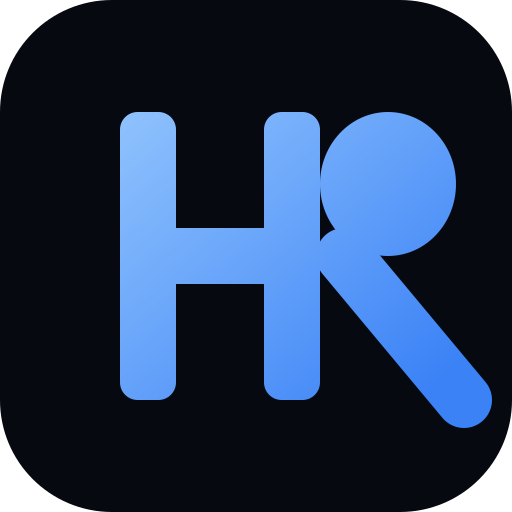
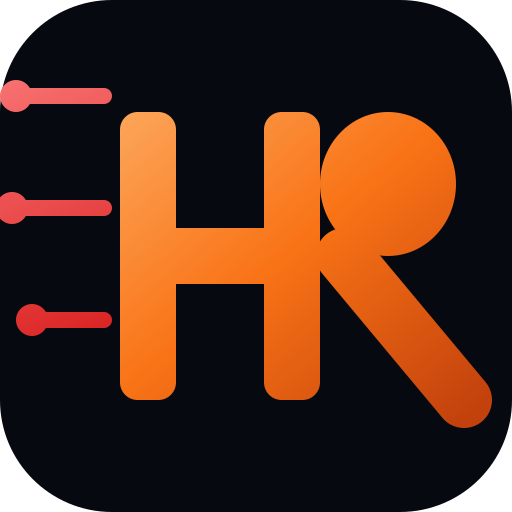
feat: aplicar identidade visual oficial (laranja/vermelho) da HR Tech
Substitui a paleta azul provisória pela identidade real da marca,
a partir da logo oficial enviada pelo fundador (opção B — laranja/dourado
com fundo escuro):

- Cor principal do site passa de azul para laranja (degradê dourado →
  laranja → laranja queimado, igual ao da logo).
- Trilhas de circuito da marca (elemento decorativo do glifo "HR") agora
  em vermelho, como toque de destaque pedido pelo fundador.
- Botões primários, glows, links, ícones e o gradiente do título do Hero
  seguem a nova paleta via variáveis CSS (--brand/--brand-strong/
  --brand-soft/--accent) — sem cores azul hardcoded restantes no código.
- Favicon, ícones de app (192/512), apple-touch-icon e imagem Open Graph
  regenerados com a nova identidade.
- Contraste revalidado (texto branco sobre laranja escuro ≥ 4.5:1).

Verificação: pnpm check limpo; Lighthouse no build de produção —
Performance 92, Accessibility 100, Best Practices 100, SEO 100.

Claude-Session: https://claude.ai/code/session_01FSiZHGFqUk4qMVMK7fgffD

Changed region(s): [[0.0, 0.2188, 0.9688, 0.8438], [0.0, 0.1562, 0.2188, 0.2188]]

diff --git a/components/ui/Logo.tsx b/components/ui/Logo.tsx
@@ -2,28 +2,38 @@ import { cn } from '@/lib/cn';
 
 /**
  * Marca HR Tech: glifo "HR" combinado (a haste direita do H é a haste do R)
- * alimentado por três trilhas de circuito — mesmo desenho da marca anterior,
- * agora na paleta azul do novo site.
+ * alimentado por três trilhas de circuito — identidade oficial (degradê
+ * laranja/dourado da logo, com as trilhas de circuito em vermelho como
+ * toque de destaque).
  */
 export function LogoMark({ className, title }: { className?: string; title?: string }) {
   return (
     <svg viewBox="0 0 64 40" fill="none" className={className} role={title ? 'img' : undefined} aria-hidden={title ? undefined : true}>
       {title && <title>{title}</title>}
       <defs>
-        <linearGradient id="hr-mark" x1="0" y1="4" x2="48" y2="36" gradientUnits="userSpaceOnUse">
-          <stop offset="0" stopColor="#93C5FD" />
-          <stop offset="1" stopColor="#3B82F6" />
+        <linearGradient id="hr-mark" x1="8" y1="2" x2="50" y2="38" gradientUnits="userSpaceOnUse">
+          <stop offset="0" stopColor="#FDBA74" />
+          <stop offset="0.55" stopColor="#F97316" />
+          <stop offset="1" stopColor="#C2410C" />
+        </linearGradient>
+        <linearGradient id="hr-mark-accent" x1="0" y1="8" x2="10" y2="32" gradientUnits="userSpaceOnUse">
+          <stop offset="0" stopColor="#F87171" />
+          <stop offset="1" stopColor="#DC2626" />
         </linearGradient>
       </defs>
-      <g stroke="url(#hr-mark)" strokeWidth="1.5" strokeLinecap="round">
+      {/* trilhas de circuito — toque de vermelho */}
+      <g stroke="url(#hr-mark-accent)" strokeWidth="1.5" strokeLinecap="round">
         <line x1="2" y1="8" x2="10" y2="8" />
         <line x1="1" y1="20" x2="10" y2="20" />
         <line x1="4" y1="32" x2="10" y2="32" />
       </g>
-      <g fill="url(#hr-mark)">
+      <g fill="url(#hr-mark-accent)">
         <circle cx="2" cy="8" r="1.5" />
         <circle cx="1.5" cy="20" r="1.5" />
         <circle cx="4" cy="32" r="1.5" />
+      </g>
+      {/* glifo HR — laranja/dourado, cor principal da marca */}
+      <g fill="url(#hr-mark)">
         <rect x="10" y="4" width="6" height="32" rx="2" />
         <rect x="26" y="4" width="6" height="32" rx="2" />
         <rect x="10" y="17" width="22" height="6" rx="2" />

diff --git a/components/ui/Button.tsx b/components/ui/Button.tsx
@@ -11,7 +11,7 @@ const base =
 const variants: Record<Variant, string> = {
   primary:
     // bg-brand-strong (não bg-brand) para o texto branco atingir 4.5:1 de contraste (WCAG AA).
-    'bg-brand-strong text-white shadow-[0_0_0_1px_rgb(var(--brand)/0.4),0_10px_30px_-10px_rgb(var(--brand)/0.7)] hover:bg-[#1d4ed8] hover:shadow-[0_0_0_1px_rgb(var(--brand)/0.5),0_14px_40px_-12px_rgb(var(--brand)/0.9)]',
+    'bg-brand-strong text-white shadow-[0_0_0_1px_rgb(var(--brand)/0.4),0_10px_30px_-10px_rgb(var(--brand)/0.7)] hover:bg-[#9a3412] hover:shadow-[0_0_0_1px_rgb(var(--brand)/0.5),0_14px_40px_-12px_rgb(var(--brand)/0.9)]',
   secondary: 'border border-line/[0.14] bg-white/[0.03] text-fg hover:border-line/[0.28] hover:bg-white/[0.07]',
   ghost: 'text-muted hover:text-fg',
 };

diff --git a/app/globals.css b/app/globals.css
@@ -11,10 +11,12 @@
   --fg: 238 242 248;
   --muted: 157 169 188;
   --subtle: 128 140 160;
-  --brand: 59 130 246;
-  --brand-strong: 37 99 235;
-  --brand-soft: 147 197 253;
-  --accent: 56 189 248;
+  /* Identidade oficial da HR Tech: laranja como cor principal (mesmo
+     degradê da logo), com vermelho usado apenas como toque de destaque. */
+  --brand: 249 115 22;
+  --brand-strong: 194 65 12;
+  --brand-soft: 253 186 116;
+  --accent: 239 68 68;
   --header-h: 68px;
 }
 
